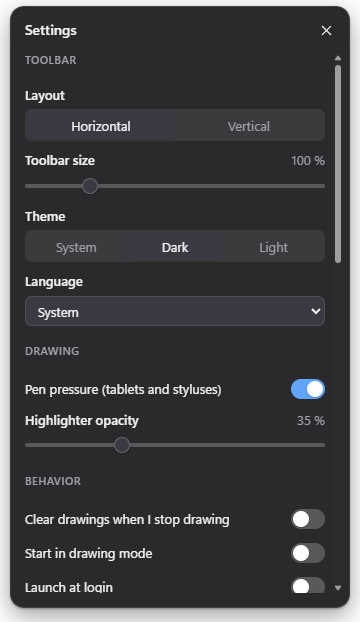
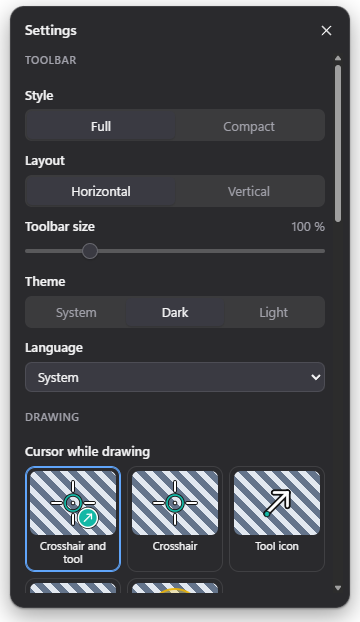
chore(release): 1.0.3

diff --git a/CHANGELOG.md b/CHANGELOG.md
@@ -6,6 +6,20 @@ project uses [Semantic Versioning](https://semver.org/spec/v2.0.0.html).
 
 ## [Unreleased]
 
+## [1.0.3] - 2026-10-23
+
+### Added
+
+- Five drawing cursor styles to choose from in Settings → Drawing, each
+  with a live preview: crosshair and tool, crosshair, tool icon, brush
+  preview and spotlight. Standard and Large sizes apply to all of them.
+
+### Changed
+
+- The drawing cursor is easy to see on any background: every style is
+  outlined dark under a light line, and a thin pen no longer gives a
+  near-invisible cursor.
+
 ## [1.0.2] - 2026-10-23
 
 ### Added
@@ -69,7 +83,8 @@ project uses [Semantic Versioning](https://semver.org/spec/v2.0.0.html).
 - Installers for Windows (NSIS, portable), macOS (universal DMG and ZIP) and
   Linux (AppImage, deb) built in CI.
 
-[Unreleased]: https://github.com/bearylaw/tool-pen-overlay/compare/v1.0.2...HEAD
+[Unreleased]: https://github.com/bearylaw/tool-pen-overlay/compare/v1.0.3...HEAD
+[1.0.3]: https://github.com/bearylaw/tool-pen-overlay/compare/v1.0.2...v1.0.3
 [1.0.2]: https://github.com/bearylaw/tool-pen-overlay/compare/v1.0.1...v1.0.2
 [1.0.1]: https://github.com/bearylaw/tool-pen-overlay/compare/v1.0.0...v1.0.1
 [1.0.0]: https://github.com/bearylaw/tool-pen-overlay/releases/tag/v1.0.0

diff --git a/README.md b/README.md
@@ -39,6 +39,9 @@ touches the network.
   remove, drag to reorder, rename. The active palette sits on the toolbar;
   <kbd>1</kbd>–<kbd>9</kbd> pick from it.
 - **Brush sizes** from 1 to 96 px, remembered separately for each tool.
+- **A cursor you can see**: five styles (crosshair and tool, crosshair,
+  tool icon, brush preview, presenter spotlight) in two sizes, all outlined
+  to stay visible on any background.
 - **Undo and redo** across all monitors, **clear**, and **hide drawings**
   without losing them.
 - **Draggable toolbar**, horizontal or vertical, full or **compact**,
@@ -168,7 +171,7 @@ Open the colour panel with the rainbow ring.
 | Section | What you can change |
 |---|---|
 | Toolbar | Full or compact style, horizontal or vertical layout, size (75–200 %), theme, language |
-| Drawing | Pen pressure on or off, highlighter opacity |
+| Drawing | Cursor style (with previews) and size, pen pressure on or off, highlighter opacity |
 | Behaviour | Clear drawings when you stop drawing, start in drawing mode, launch at login (Windows, macOS) |
 | Defaults | Start with the last used tool or with your saved defaults; save the current tool, colour and size as your default |
 | Global shortcuts | See above |
